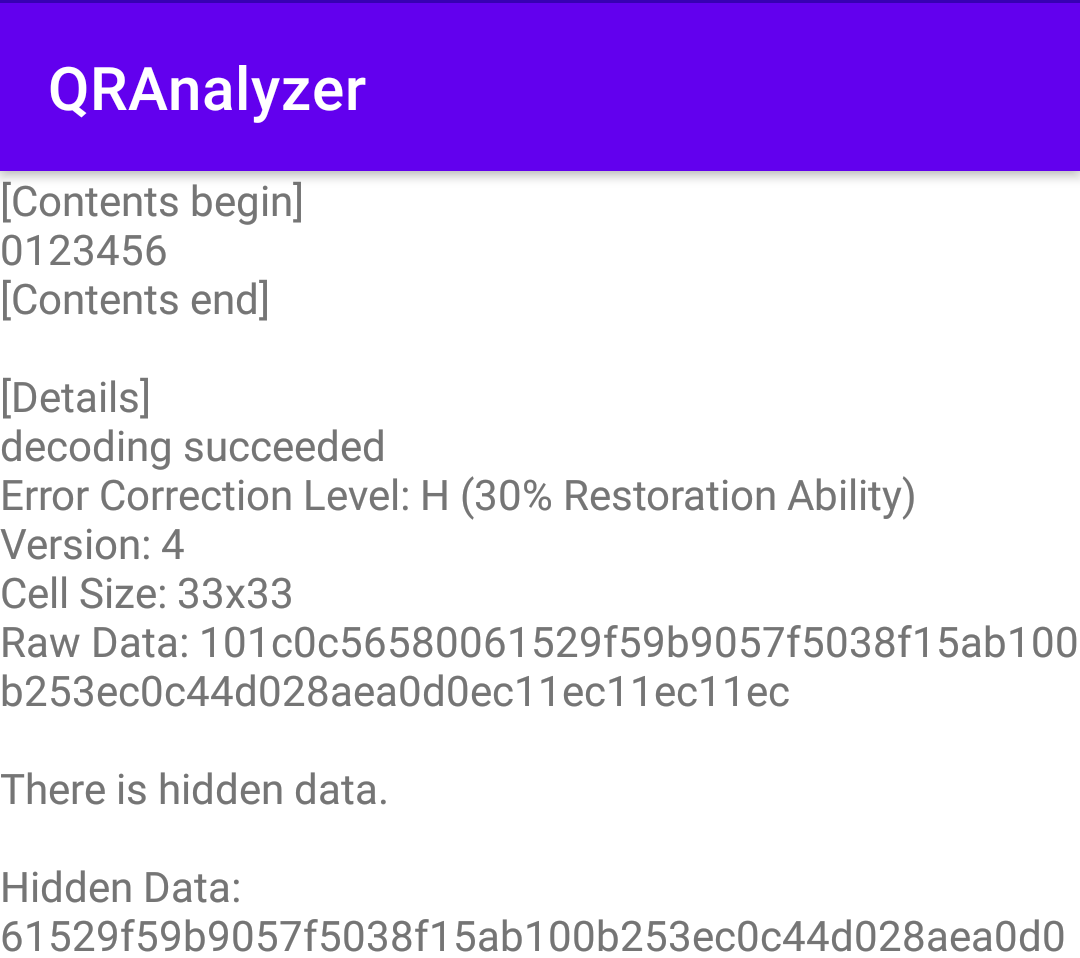
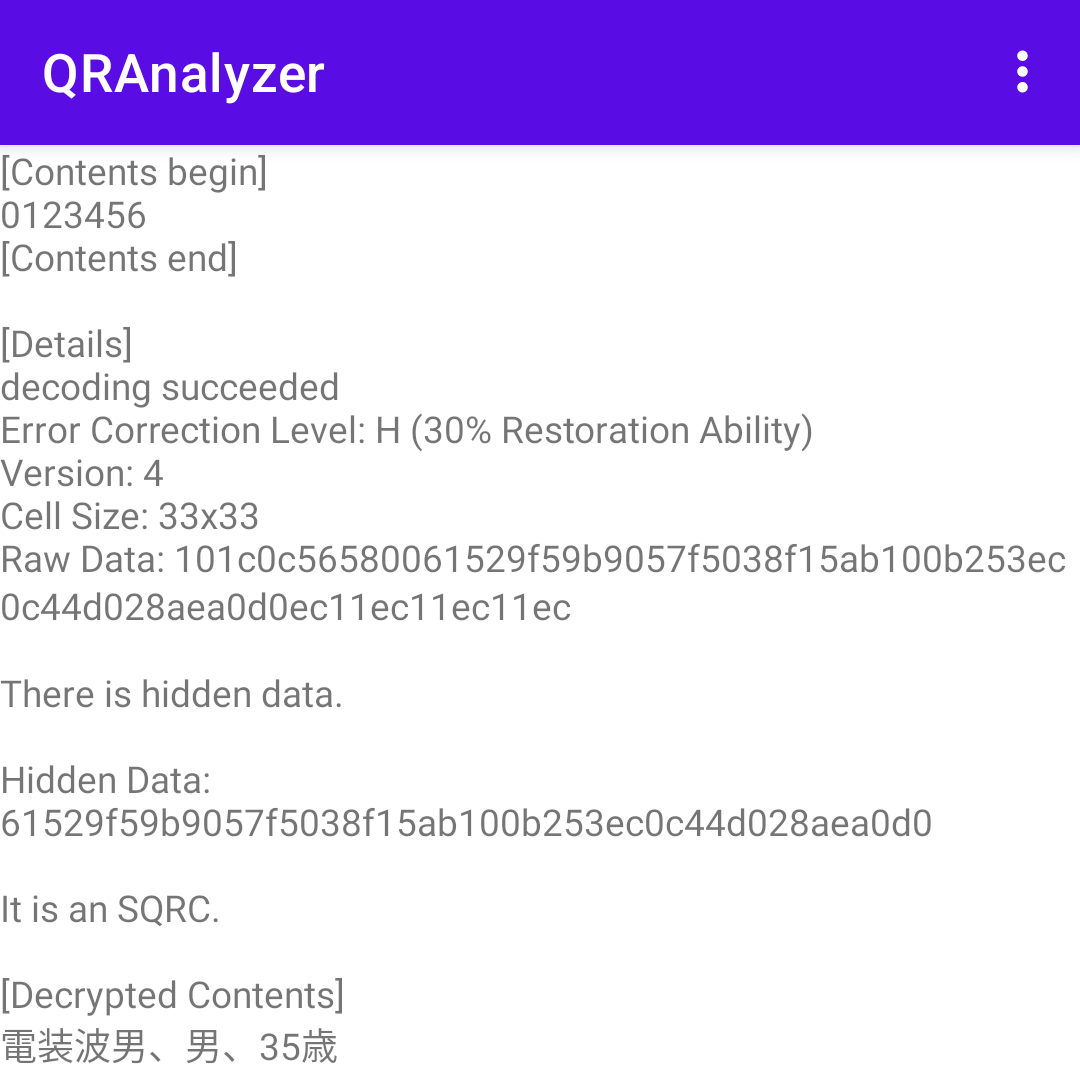
add SQRC

Changed region(s): [[0.0, 0.0, 1.0, 0.8779], [0.0, 0.9081, 1.0, 0.999], [0.9167, 0.0605, 0.9472, 0.0908]]

diff --git a/README.md b/README.md
@@ -1,8 +1,10 @@
 # QRAnalyzer
 
-analyze QR code
+analyze QR code®
 
 ![QR_QRAnalyzer.png](img/QR_QRAnalyzer.png)
+
+# Features
 
 ## Show Details
 
@@ -12,14 +14,16 @@ analyze QR code
 
 ## Show Hidden Data
 
-[SQRC](https://www.denso-wave.com/en/system/qr/product/sqrc.html)
+[SQRC®](https://www.denso-wave.com/en/system/qr/product/sqrc.html)
 
 ![sc2_en](img/sc2_en.png)
 
-[SQRC](https://www.denso-wave.com/ja/system/qr/product/sqrc.html)
+[SQRC®](https://www.denso-wave.com/ja/system/qr/product/sqrc.html)
 
 ![sc2_ja](img/sc2_ja.png)
 
 # Licenses
 
 See [licenses.xml](app/src/main/res/values/licenses.xml)
+
+QR code, SQRC are registered trademarks of DENSO WAVE INCORPORATED
